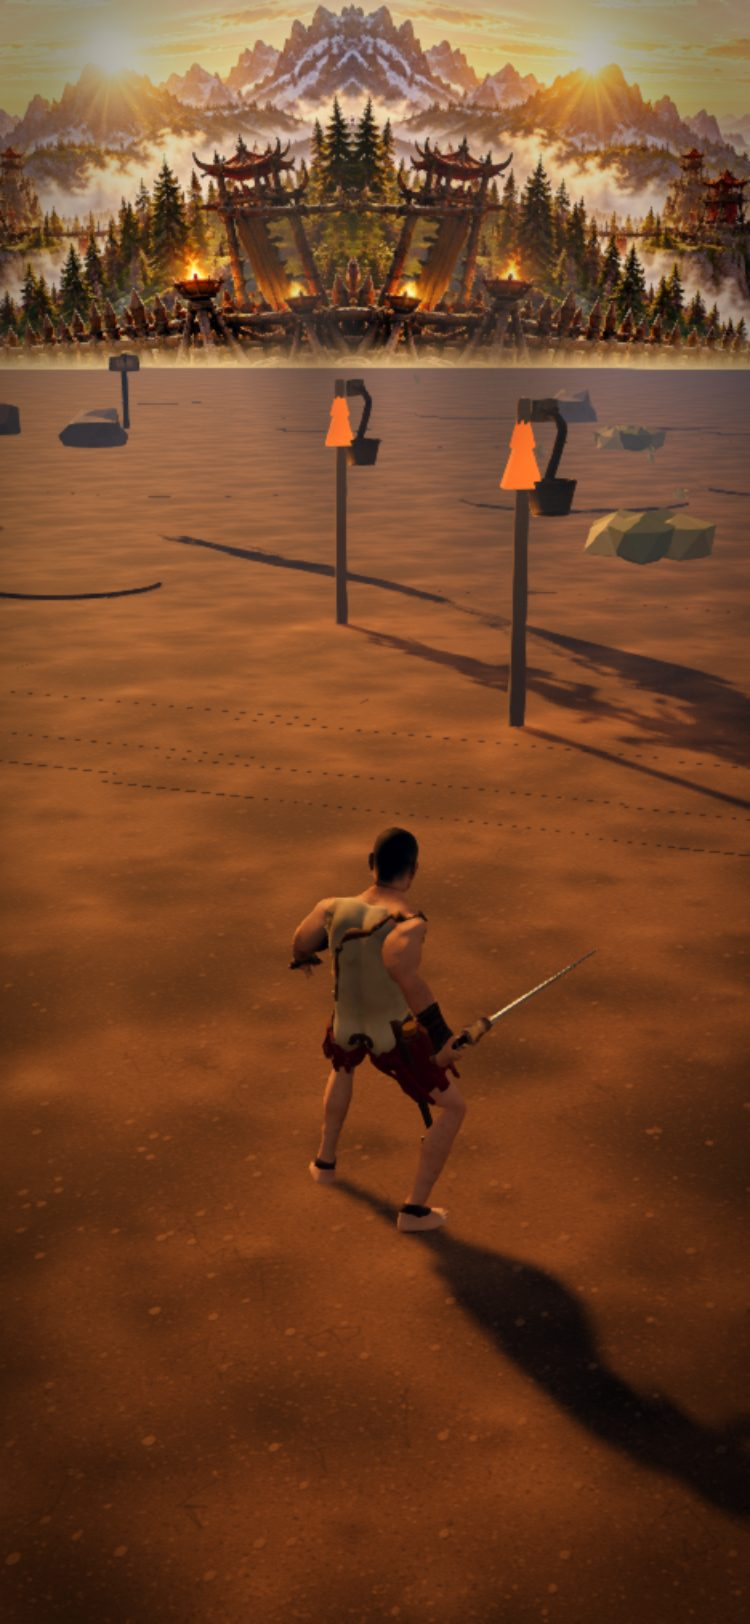
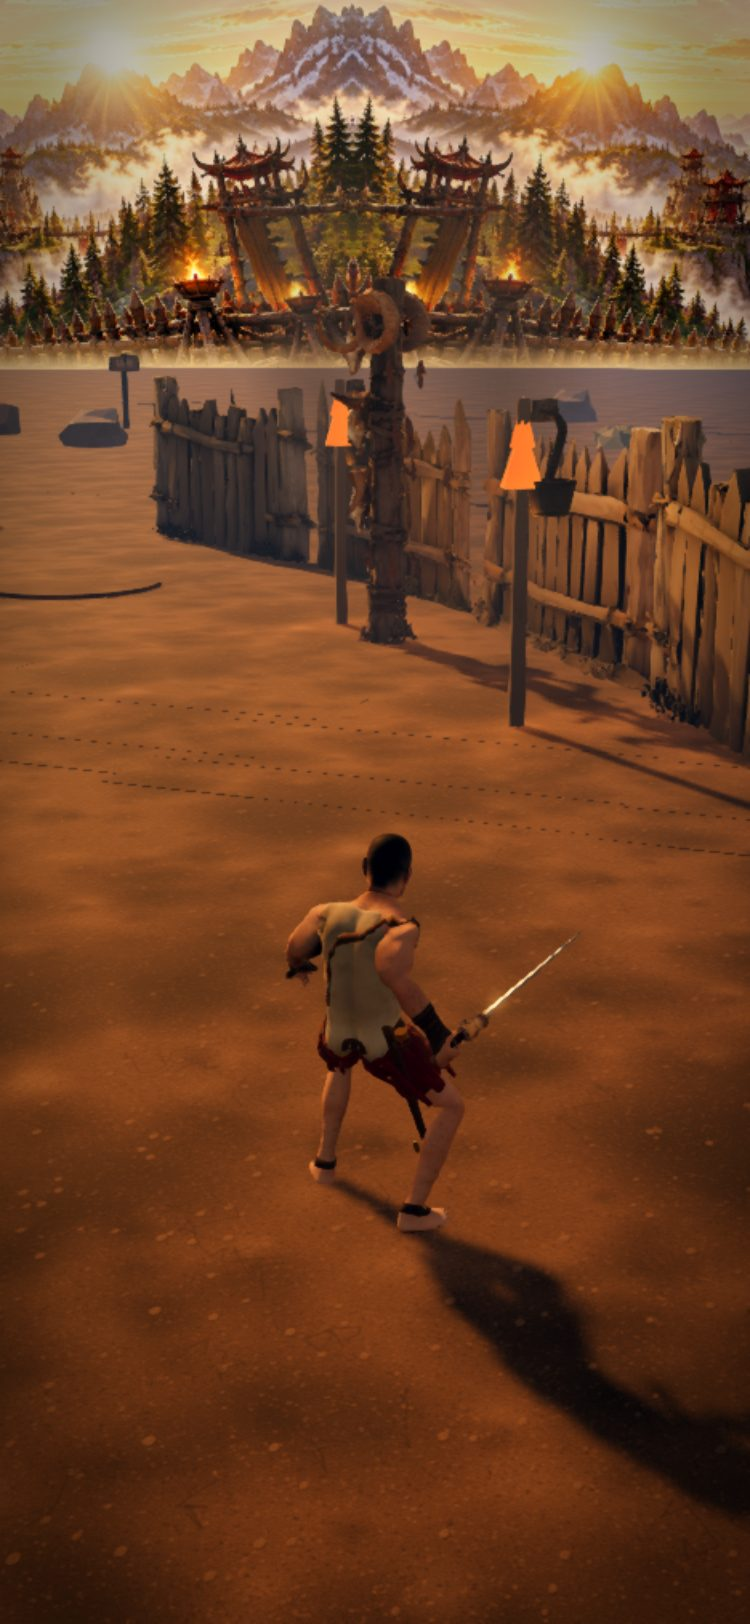
kit LOD: ?kitlodist=N preview link and a forced-far arm in the stills (look at the far body up close); near-on hut now drawn

diff --git a/origins/preview/skin-models.ts b/origins/preview/skin-models.ts
@@ -26,7 +26,8 @@ export async function loadFarBodies(nodes: readonly string[]): Promise<Map<strin
     const scene = await farFiles.get(lod.url); if (!scene) continue;
     scene.traverse((o) => { if ((o as THREE.Mesh).isMesh) o.position.set(0, 0, 0); });   // as the full file: a node stands at its own origin (its scale and rotation stay: a quantized file keeps its dequantizing scale there)
     scene.updateMatrixWorld(true);
-    scene.traverse((o) => { const mesh = o as THREE.Mesh; if (mesh.isMesh && mesh.name === node && !out.has(node)) out.set(node, { geometry: mesh.geometry, material: mesh.material, dist: lod.dist, matrix: mesh.matrixWorld.clone() }); });
+    const forced = typeof location === 'undefined' ? NaN : Number(new URLSearchParams(location.search).get('kitlodist') ?? NaN);   // ?kitlodist=<m>: the swap distance for every node (a preview test link: ~0 draws every instance as its far body, to look at it up close); absent = the row
+    scene.traverse((o) => { const mesh = o as THREE.Mesh; if (mesh.isMesh && mesh.name === node && !out.has(node)) out.set(node, { geometry: mesh.geometry, material: mesh.material, dist: forced >= 0 ? forced : lod.dist, matrix: mesh.matrixWorld.clone() }); });
   }
   return out;
 }
